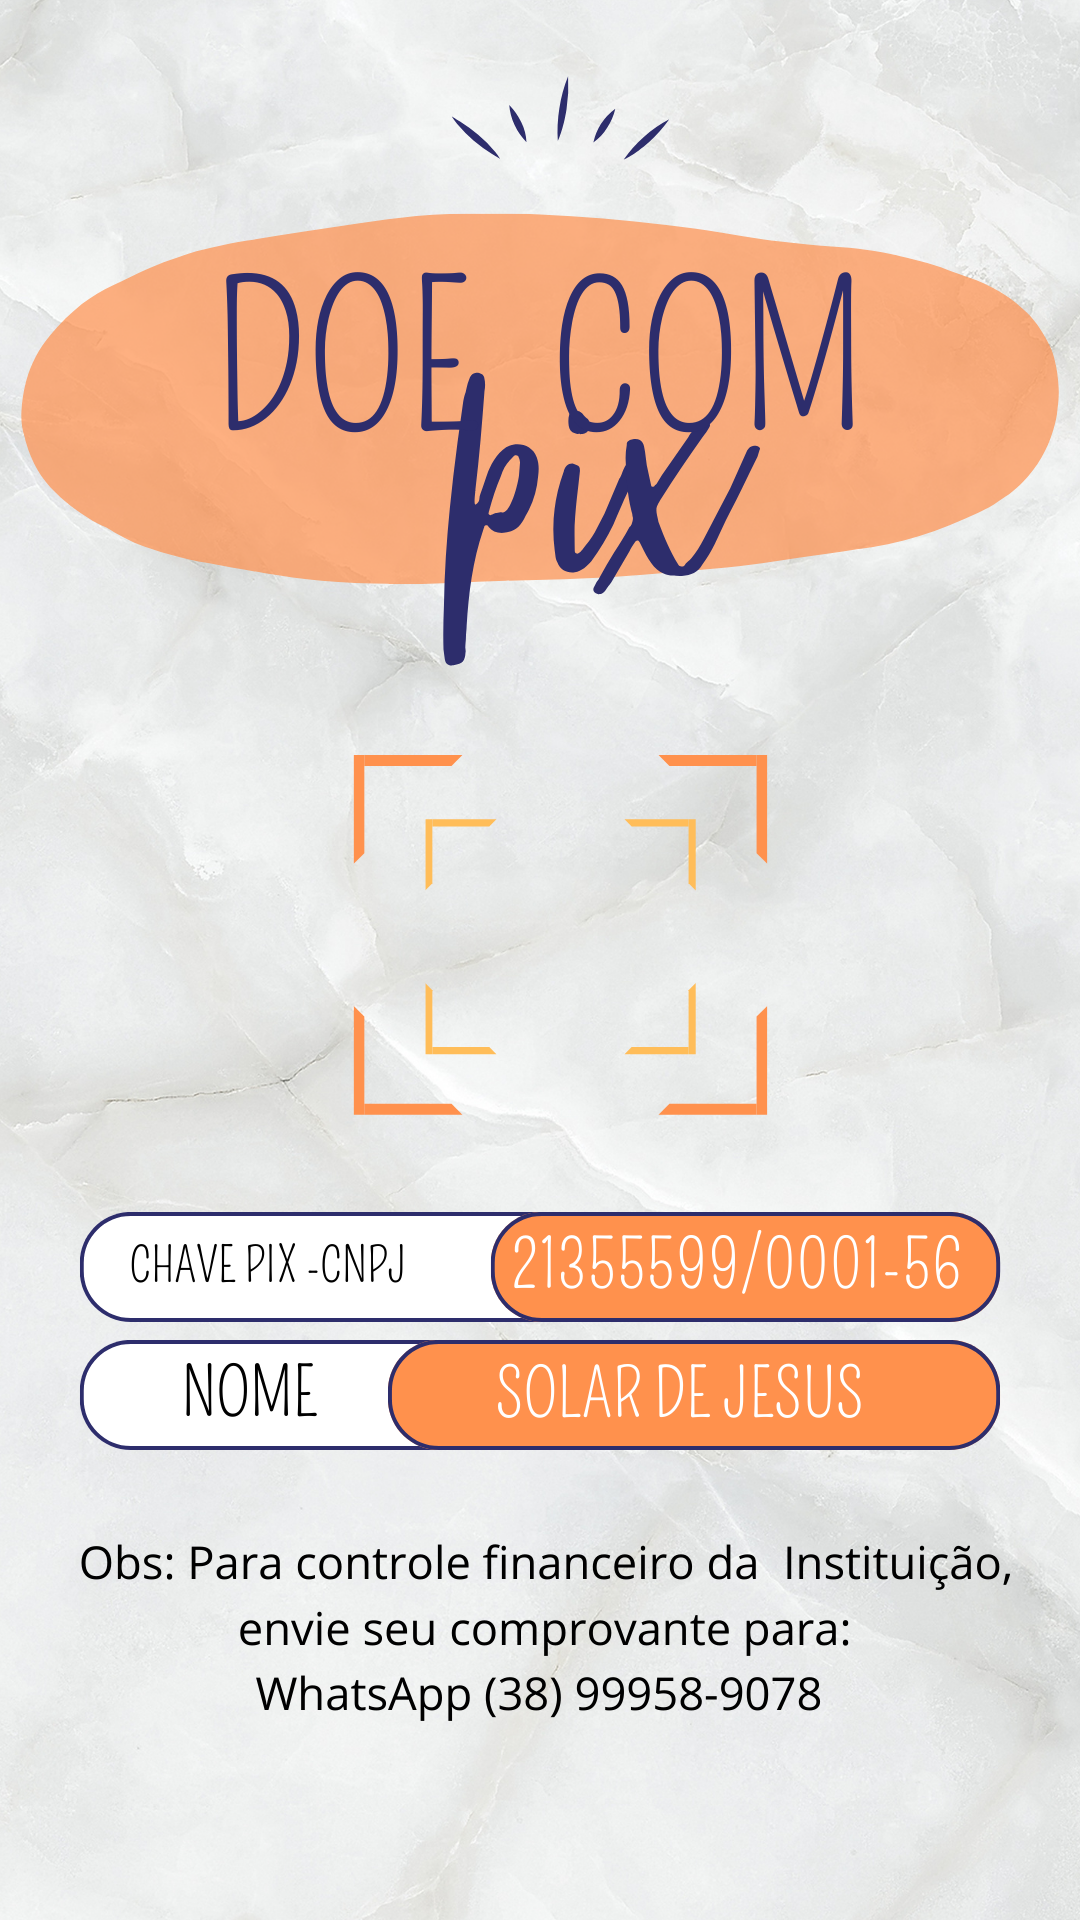
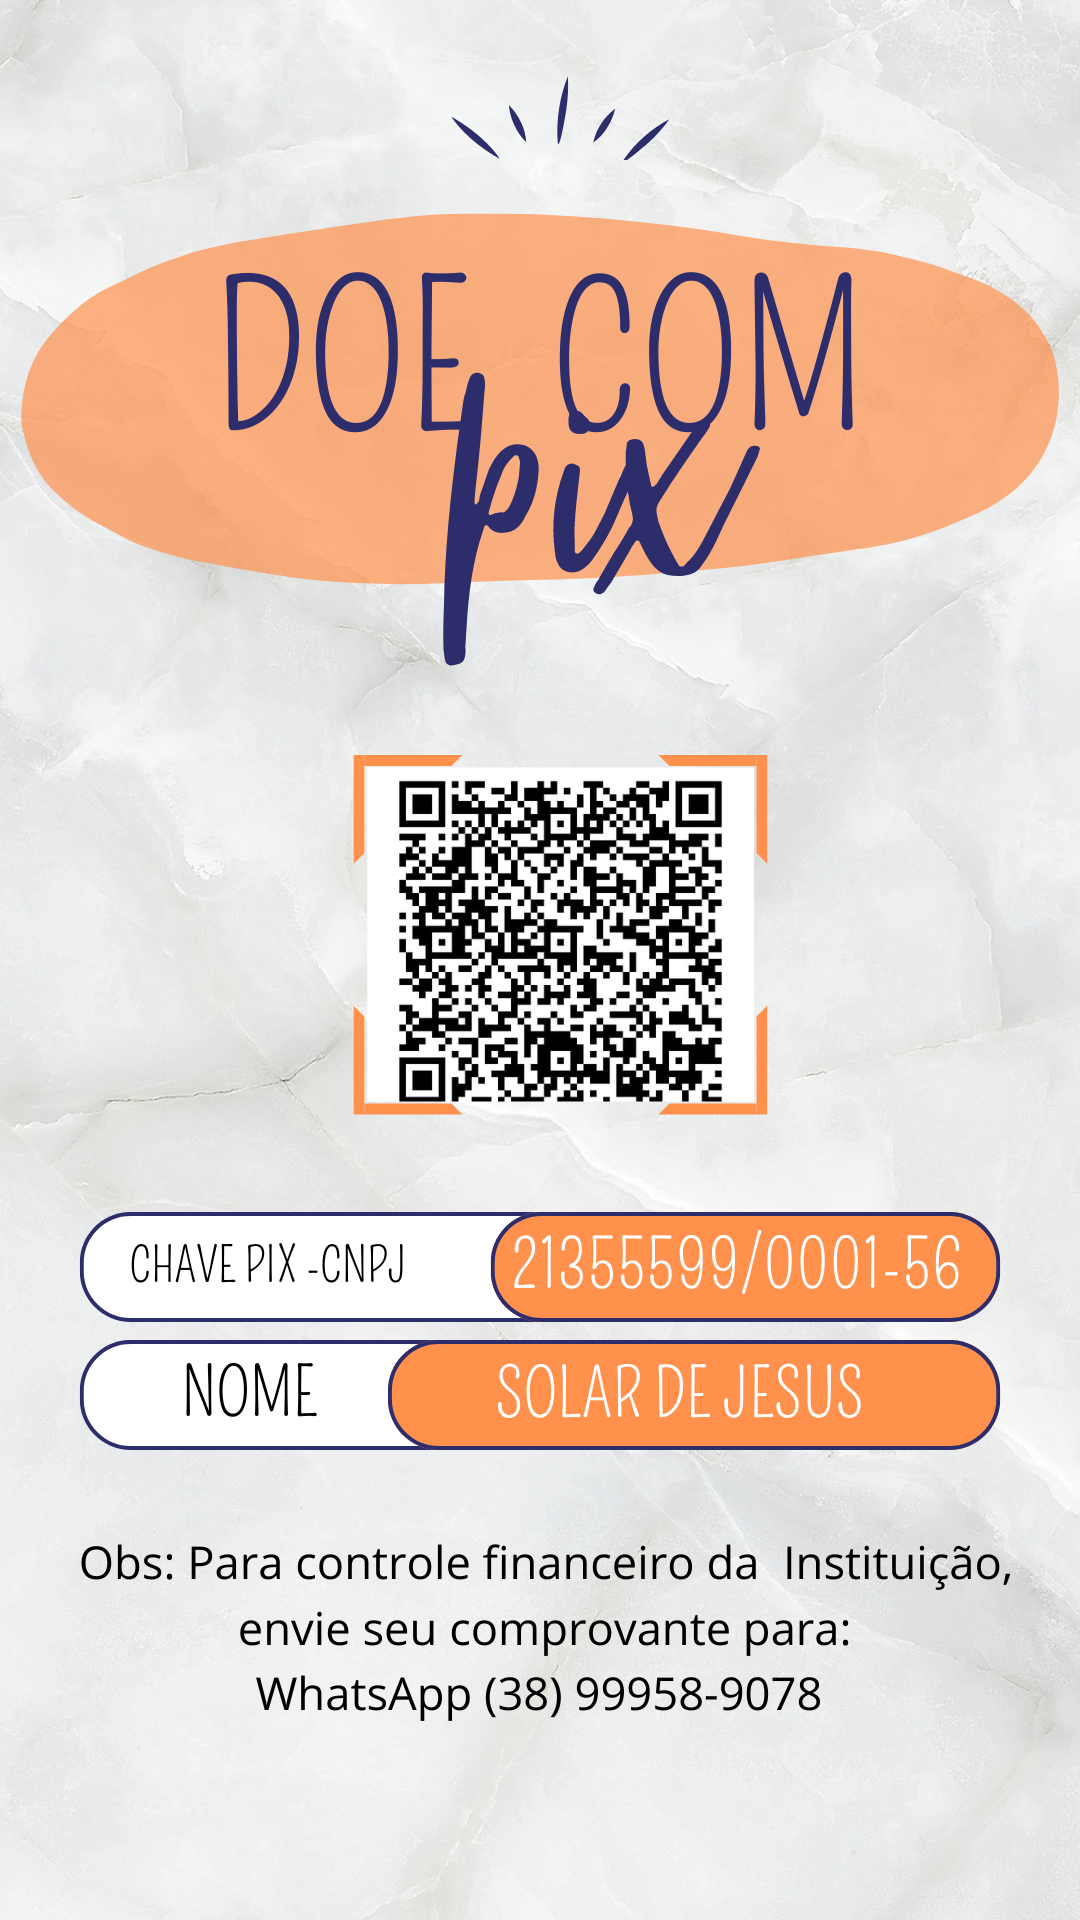
.........

Changed region(s): [[0.3361, 0.375, 0.7028, 0.5938]]

diff --git a/src/pages/Comprovante.jsx b/src/pages/Comprovante.jsx
@@ -1,7 +1,7 @@
 import React from 'react';
 import Navbar from '../Navbar';
 import Footer from '../Footer';
-import enreje from '../public/Pix.png';
+import Pix from '../public/Pix.png';
 import { FaWhatsapp } from 'react-icons/fa';
 
 const Form_Vendas = () => {
@@ -16,7 +16,7 @@ const Form_Vendas = () => {
                     <p className="text-gray-700 font-bold">Entregamos em até dois dias úteis seu pedido.</p>
                 </div>
                 {/* Adicionar uma Imagem com QRcode Pix Solar de Jesus */}
-                <img src={enreje} alt="QR Code Pix" className="mx-auto mb-8" />
+                <img src={Pix} alt="QR Code Pix" className="mx-auto mb-8" style={{ width: '450px', height: '800px' }} />
                 <div className="max-w-md mx-auto mt-8">
                     <h2 className="text-2xl font-bold mb-4  text-center ">Envie seu Comprovante PIX</h2>
                     <h2 className="text-2xl font-bold mb-4  text-center "><em>Clique no botão abaixo e informe sobre seu pedido.</em></h2>

diff --git a/index.html b/index.html
@@ -1,5 +1,5 @@
 <!doctype html>
-<html lang="en">
+<html lang="pt-br">
   <head>
     <meta charset="UTF-8" />
     <link rel="shortcut icon" href="./Favicons/favicon-16x16.png" type="image/x-icon">
